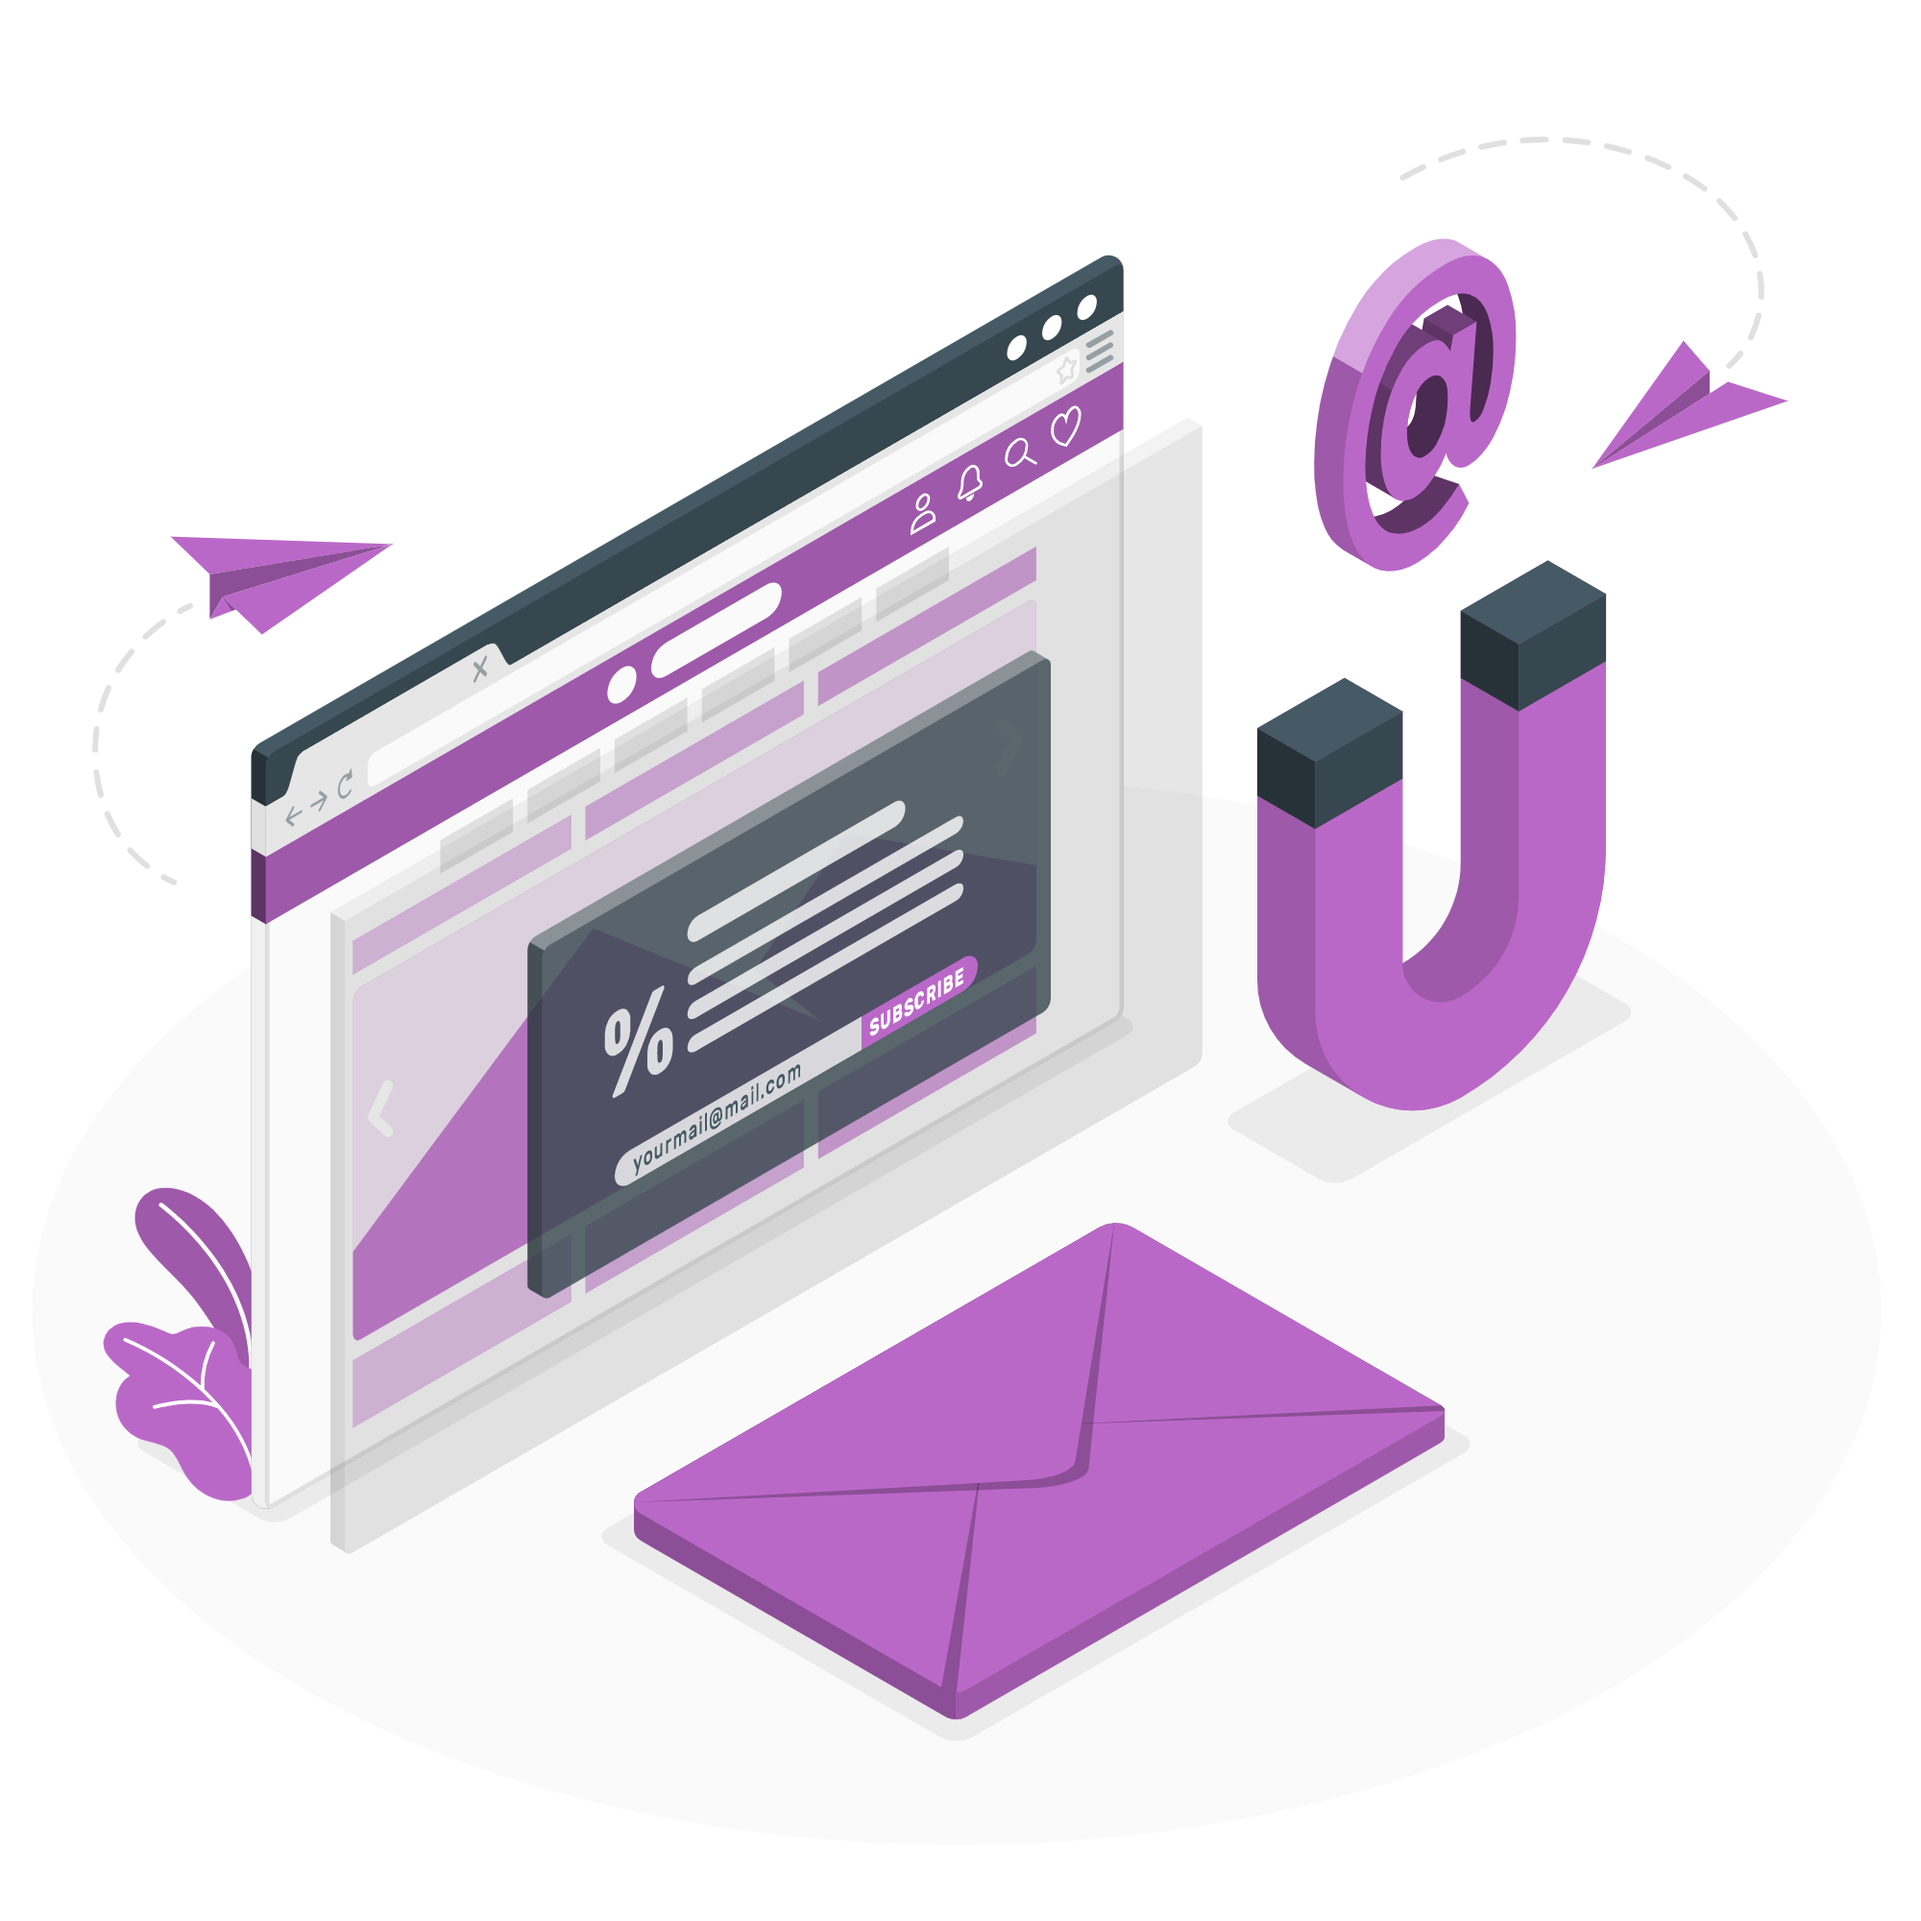
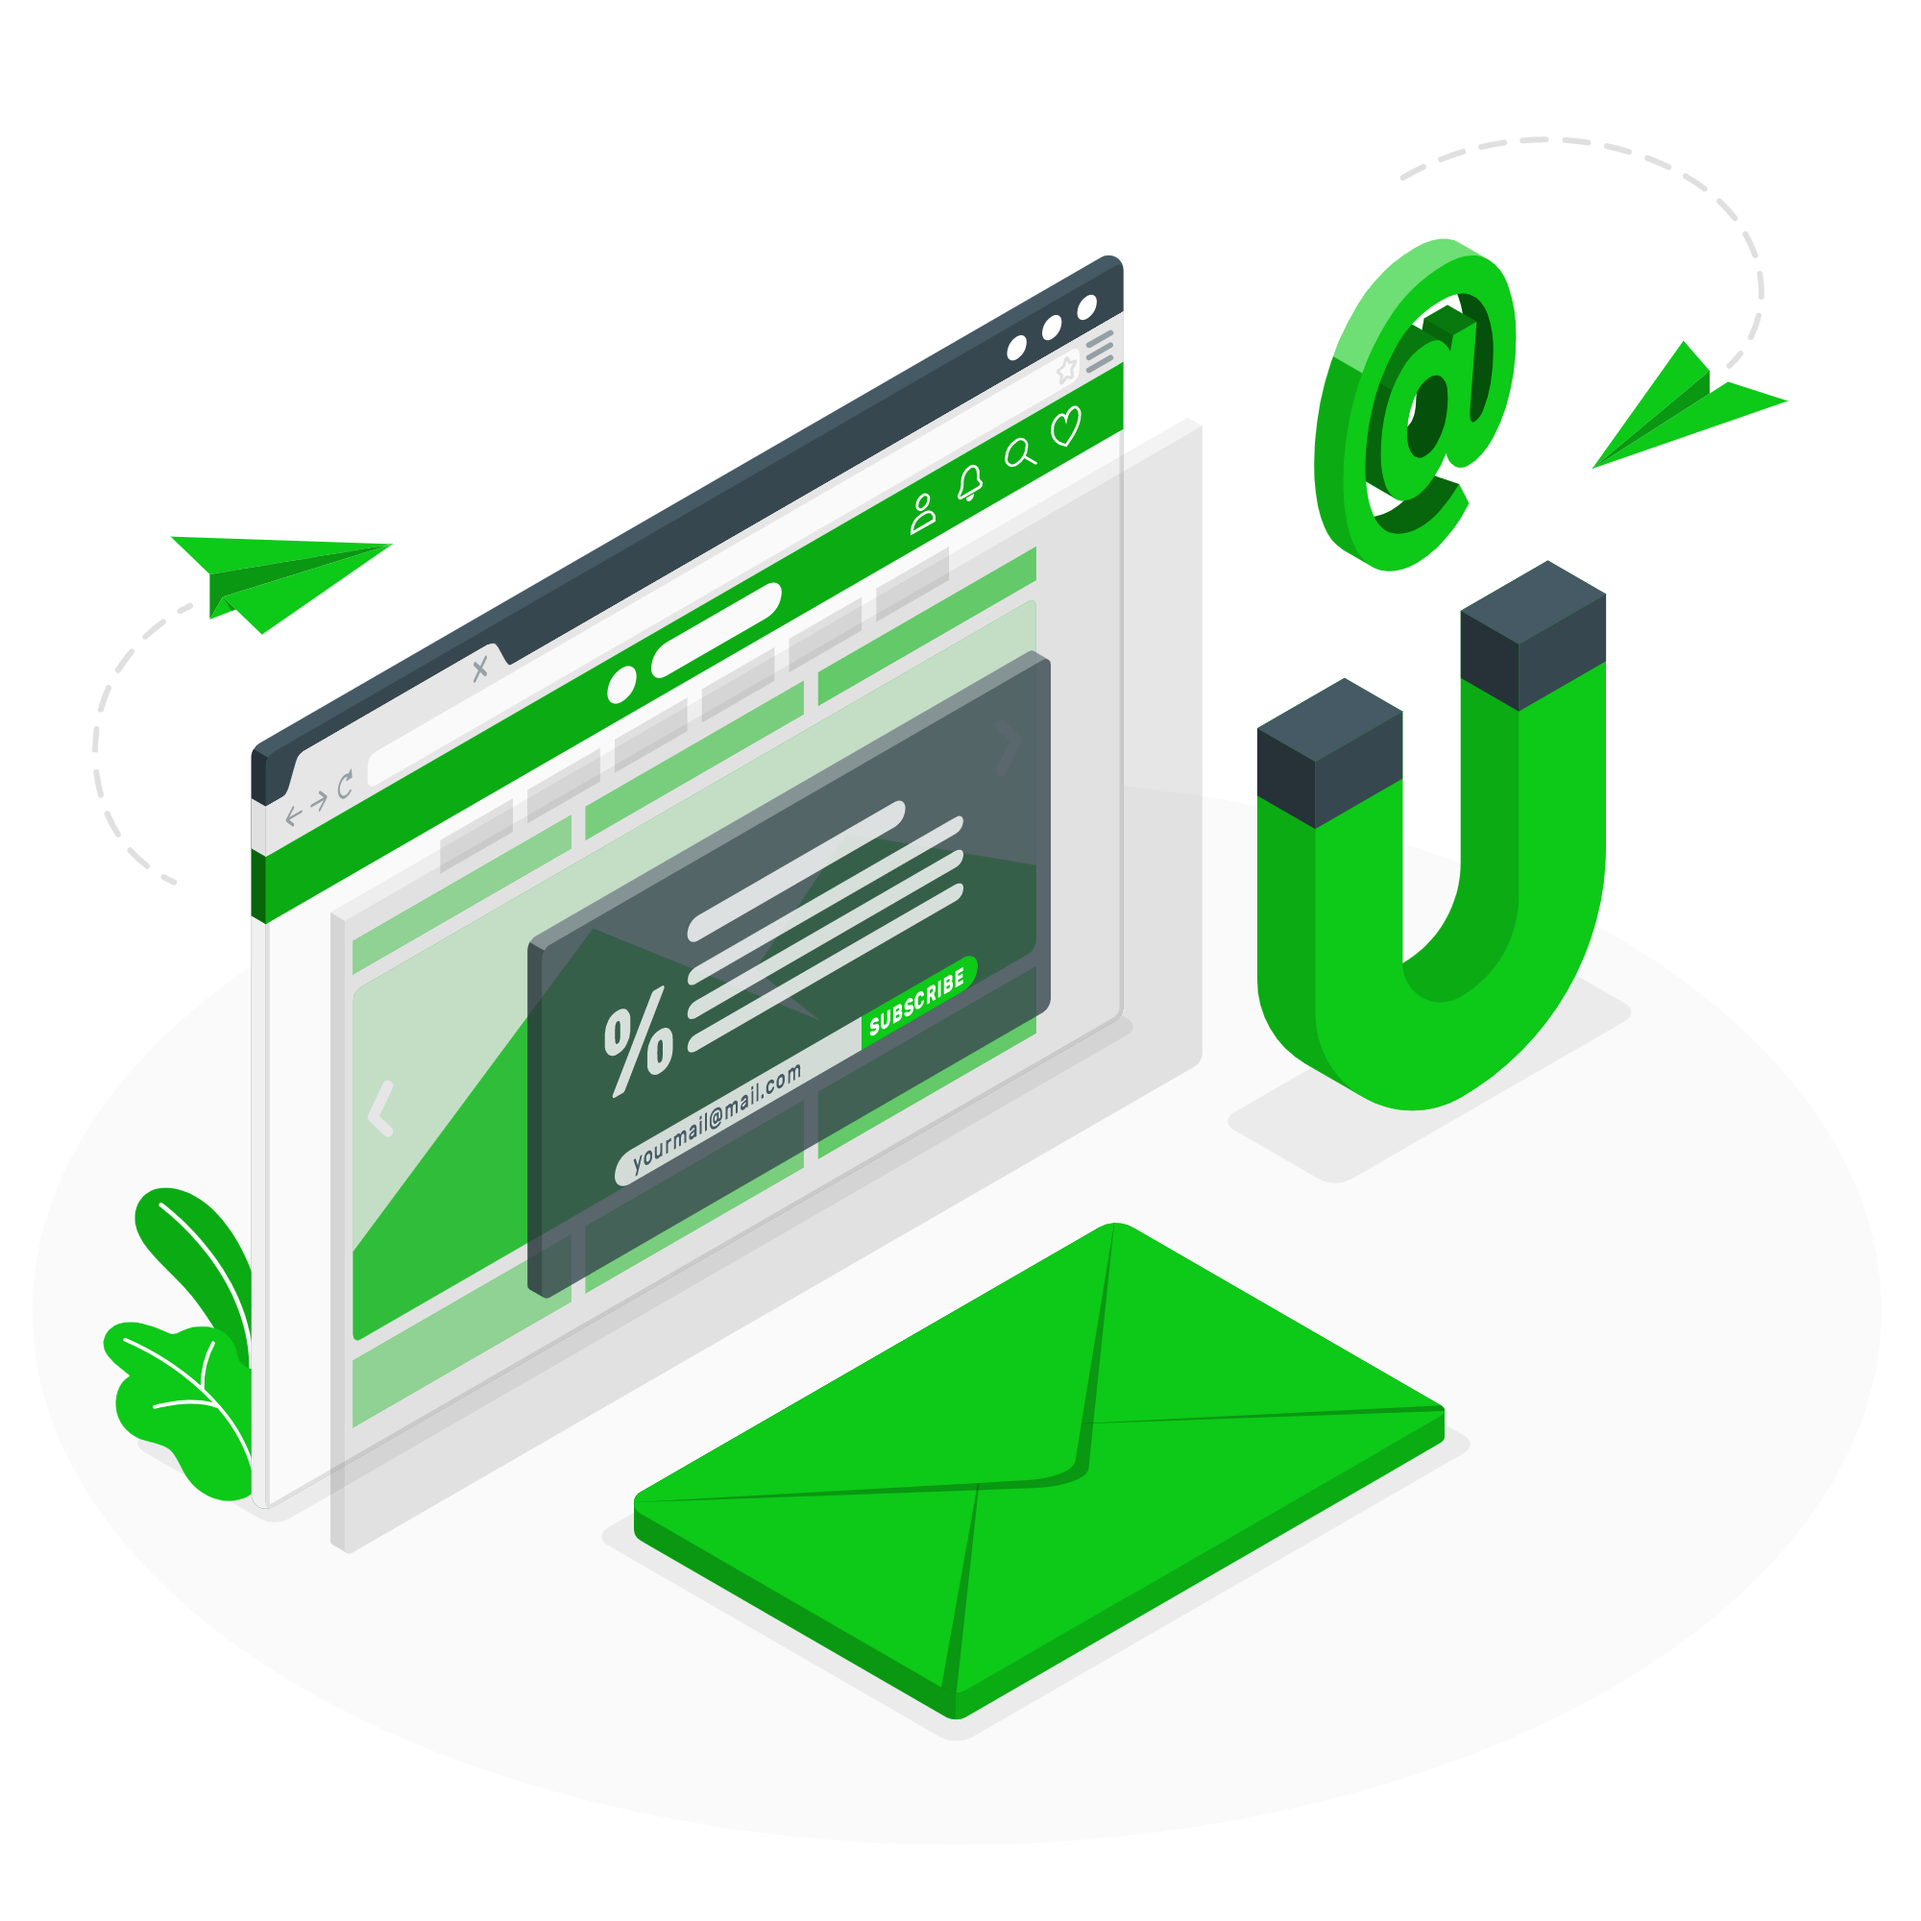
Projeto final 1.0

diff --git a/css/style.css b/css/style.css
@@ -24,6 +24,26 @@ li {
     margin: 20px;
 }
 
+a {
+    color: #fff;
+}
+
+a:hover {
+    color: #0dc918;
+    transition: 0.3s all;
+}
+
+#inscreva-se-btn {
+    border: 2px solid #0dc918;
+    padding: 10px;
+    border-radius: 15px;
+}
+
+#inscreva-se-btn:hover {
+    background-color: #0dc918;
+    color: #fff;
+}
+
 h1 {
     font-weight: 200;
 }
@@ -34,6 +54,49 @@ main {
     margin-top: 50px;
 }
 
+h2 {
+    font-size: 56px;
+    line-height: 10px;
+    font-family: poppinsregular;
+}
+
+span {
+    color: #0dc918;
+}
+
+p {
+    line-height: 20px;
+    max-width: 500px;
+    font-family: poppinsregular;
+}
+
 img {
     width: 580px;
+}
+
+form {
+    display: flex;
+    flex-direction: column;
+    width: 70%;
+}
+
+form [type="submit"] {
+    height: 50px;
+    width: 50%;
+    background-color: #0dc918;
+    color: #fff;
+    font-weight: bold;
+}
+
+form [type="submit"]:hover {
+    cursor: pointer;
+}
+
+input {
+    margin-top: 20px;
+    height: 20px;
+    padding: 15px;
+    border-radius: 20px;
+    border: none;
+    font-size: 15px;
 }

diff --git a/index.html b/index.html
@@ -37,16 +37,16 @@
 
         <main>
             <aside>
-                <h2>Inscreva-se agora</h2>
+                <h2><span>Inscreva-se agora</span></h2>
                 <h2>na Newsletter</h2>
                 <p>
-                    Lorem ipsum dolor sit amet consectetur adipisicing elit. Iusto maiores quis dolore odio voluptatem temporibus. 
+                    Atualizar-se com as melhores notícias sobre marketing, se informando com conteúdos relevantes da nossa plataforma. Dessa forma, é possível ficar por dentro das novidades da sua área de atuação, aliando praticidade e qualidade.
                 </p>
 
                 <form>
                     <input type="text" placeholder="Nome">
                     <input type="email" placeholder="E-mail">
-                    <input type="submit" placeholder="Enviar >">
+                    <input type="submit" value="Enviar >">
                 </form>
             </aside>
 

diff --git a/css/media.css b/css/media.css
@@ -1,31 +1,31 @@
-@media screen and (max-width: 760px){
+@media screen and (max-width: 760px) {
 
-    header{
+    header {
         flex-direction: column;
     }
 
-    main{
+    main {
         flex-direction: column;
     }
 
-    h2{
+    h2 {
         font-size: 38px;
     }
 
-    form{
+    form {
         margin: 0 auto;
         width: 100%;
     }
 
-    input{
+    input {
         align-self: center;
     }
 
-    img{
+    img {
         display: none;
     }
 
-    ul{
+    ul {
         text-align: center;
     }
 }

diff --git a/README.md b/README.md
@@ -15,7 +15,7 @@
 
   <!--Adicionar imagem/gif do projeto aqui-->
   <div style="width:30%">
-    <a href='#voltar-topo'><img src="./components/images/tela-inicio-projeto.gif" style="width:100%" alt="Imagem do projeto"></a>   
+    <a href='#voltar-topo'><img src="./components/images/tela-inicio-projeto.jpg" style="width:100%" alt="Imagem do projeto"></a>   
   </div><hr>
 </div>
 
